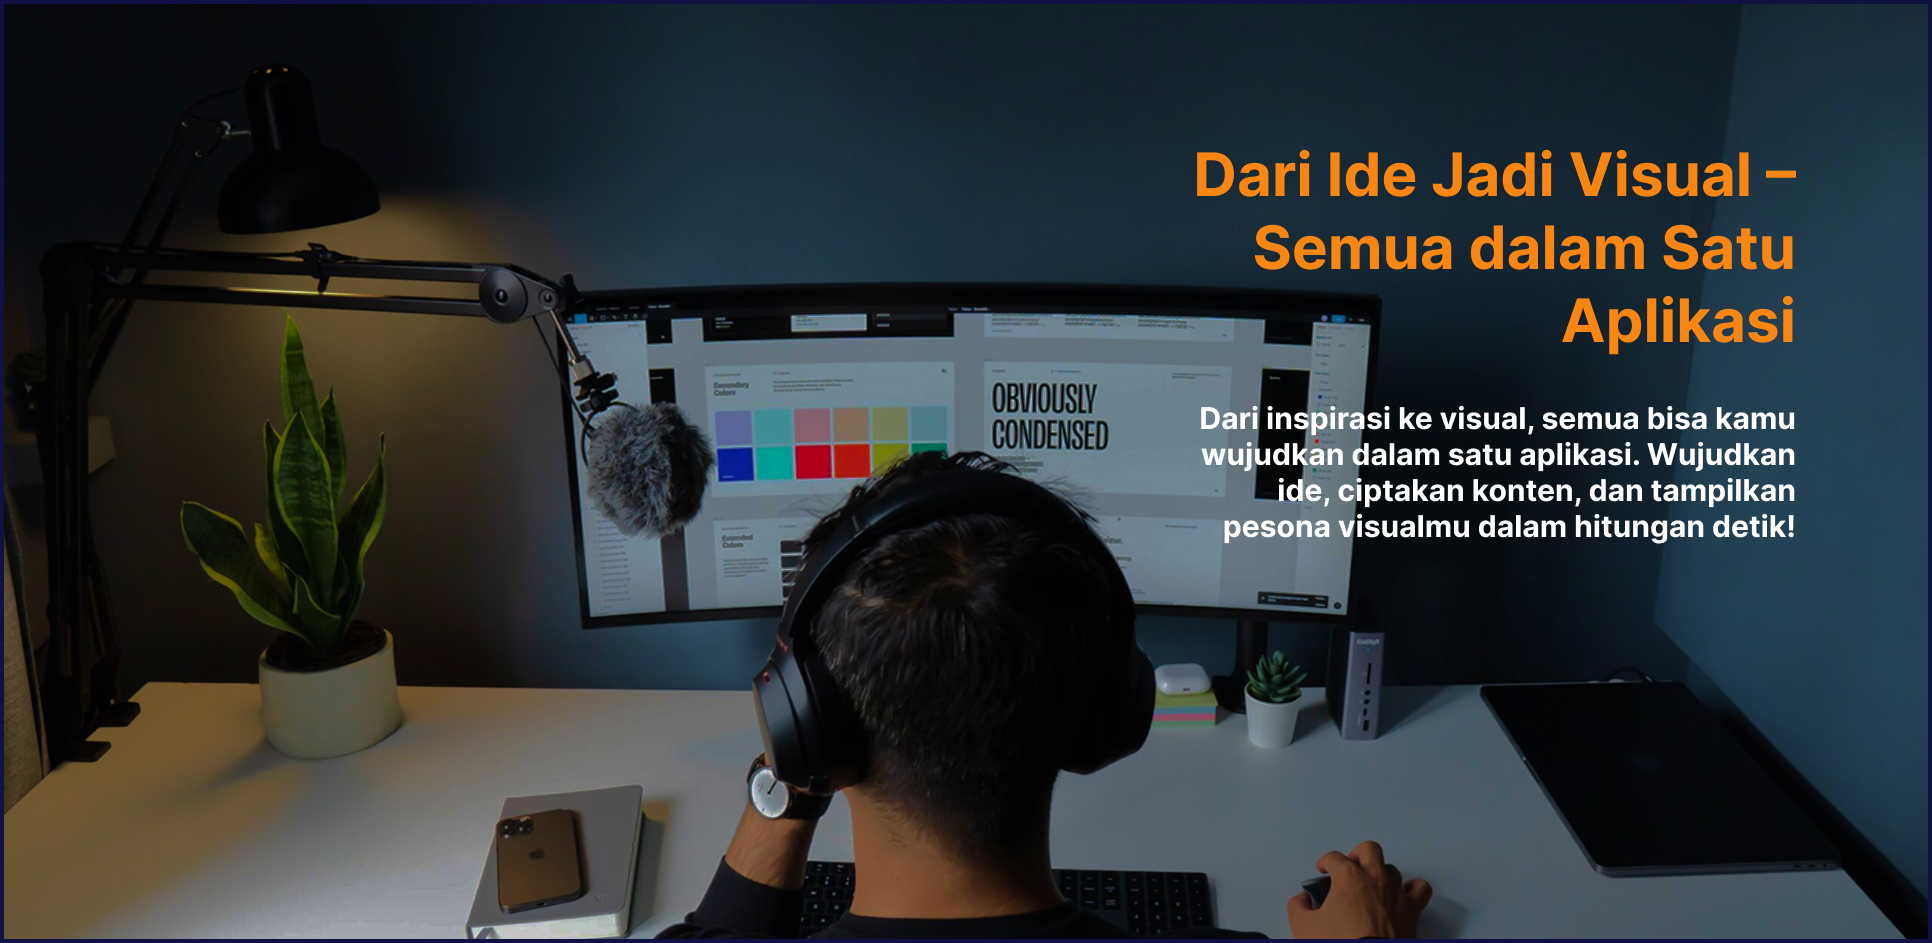
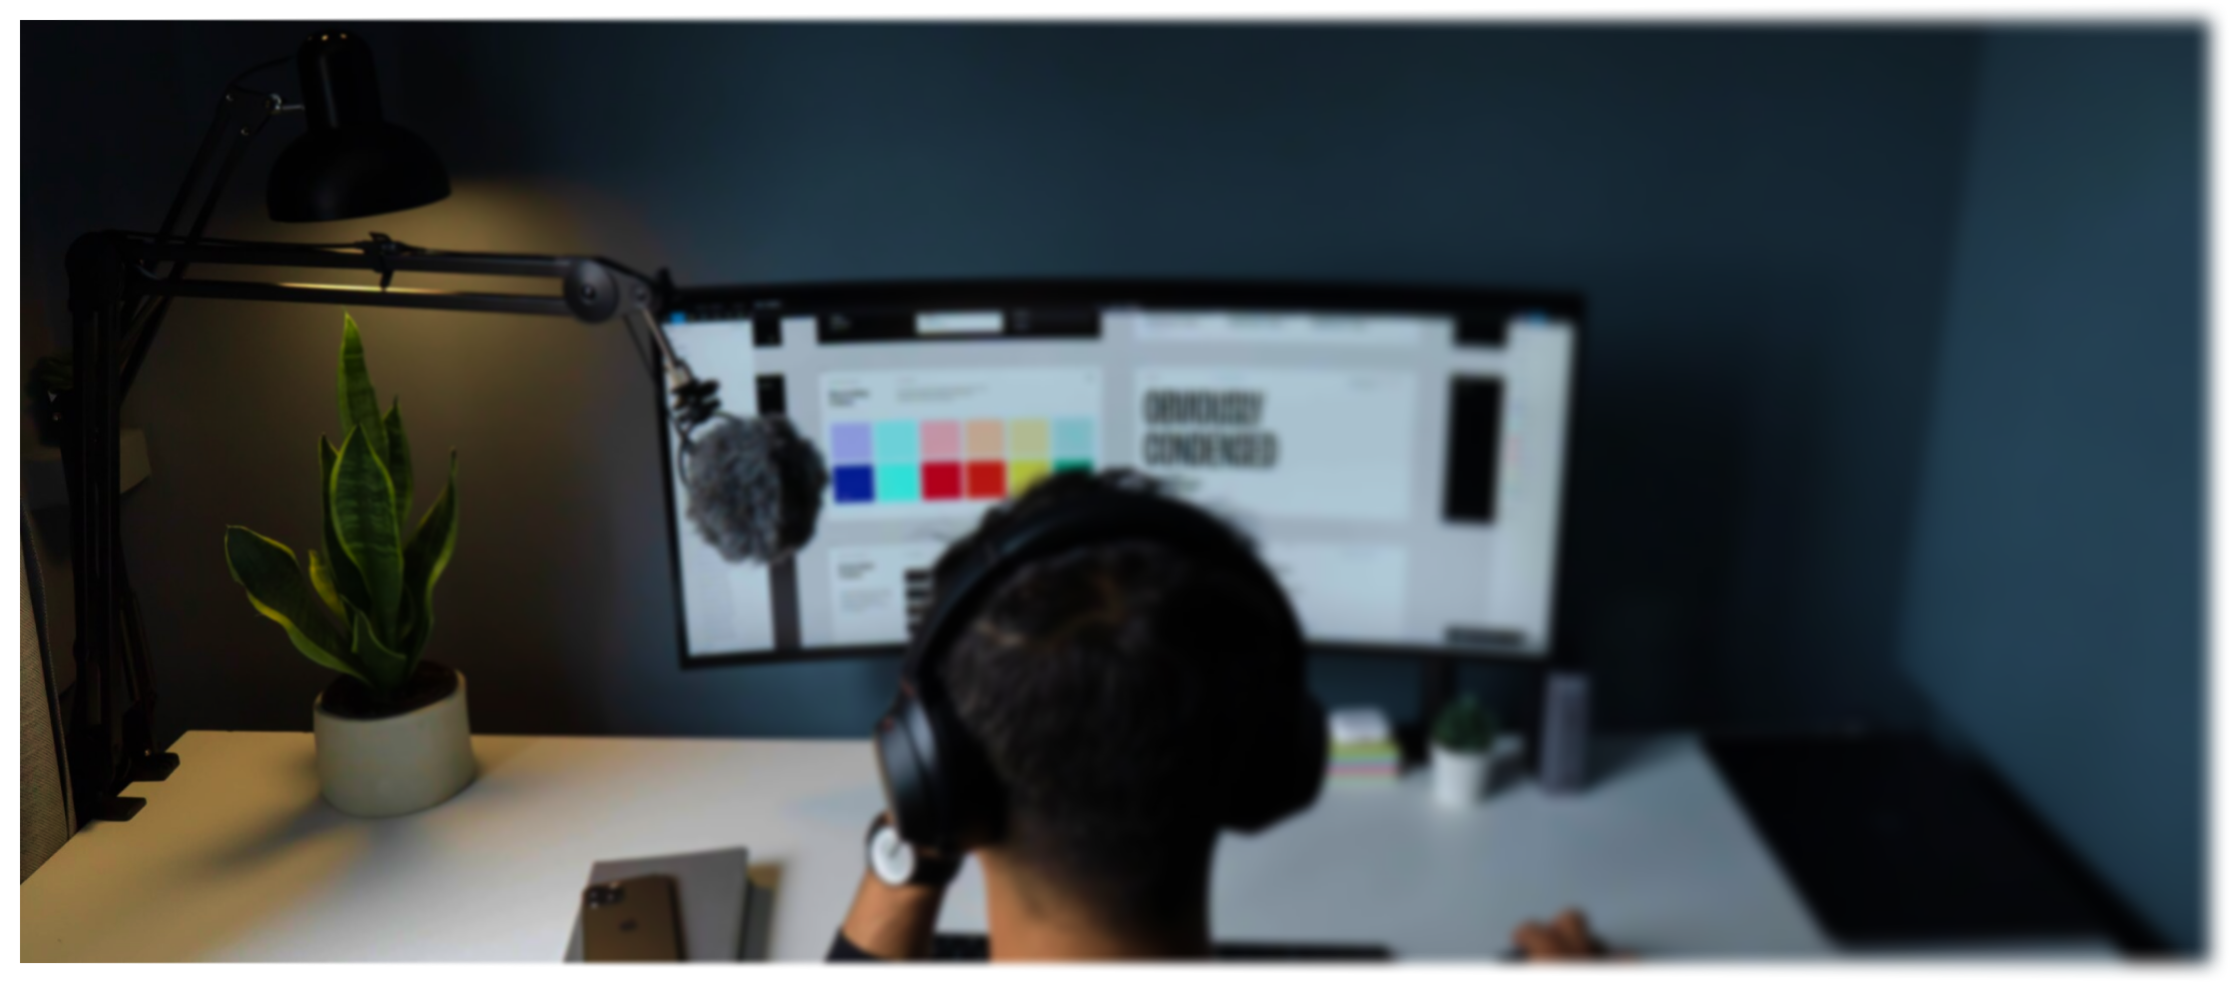
update 2.4

diff --git a/assets/css/tailwind.css b/assets/css/tailwind.css
@@ -628,6 +628,14 @@ video {
   left: -5%;
 }
 
+.-left-1 {
+  left: -0.25rem;
+}
+
+.-left-3 {
+  left: -0.75rem;
+}
+
 .z-10 {
   z-index: 10;
 }
@@ -793,6 +801,10 @@ video {
   height: 0.25rem;
 }
 
+.h-screen {
+  height: 100vh;
+}
+
 .min-h-screen {
   min-height: 100vh;
 }
@@ -855,6 +867,14 @@ video {
 
 .w-\[140\%\] {
   width: 140%;
+}
+
+.w-\[100\%\] {
+  width: 100%;
+}
+
+.w-screen {
+  width: 100vw;
 }
 
 .min-w-full {
@@ -938,6 +958,10 @@ video {
 
 .items-start {
   align-items: flex-start;
+}
+
+.items-end {
+  align-items: flex-end;
 }
 
 .items-center {
@@ -1165,6 +1189,11 @@ video {
      object-position: right;
 }
 
+.object-center {
+  -o-object-position: center;
+     object-position: center;
+}
+
 .p-3 {
   padding: 0.75rem;
 }
@@ -1258,6 +1287,10 @@ video {
 
 .text-center {
   text-align: center;
+}
+
+.text-right {
+  text-align: right;
 }
 
 .font-inter {
@@ -1900,6 +1933,10 @@ body {
     min-height: 80vh;
   }
 
+  .md\:min-h-screen {
+    min-height: 100vh;
+  }
+
   .md\:w-1\/2 {
     width: 50%;
   }
@@ -1932,6 +1969,10 @@ body {
     flex-direction: row;
   }
 
+  .md\:items-end {
+    align-items: flex-end;
+  }
+
   .md\:items-center {
     align-items: center;
   }
@@ -1951,6 +1992,11 @@ body {
   .md\:object-center {
     -o-object-position: center;
        object-position: center;
+  }
+
+  .md\:object-left {
+    -o-object-position: left;
+       object-position: left;
   }
 
   .md\:p-12 {
@@ -1978,6 +2024,16 @@ body {
 
   .md\:text-xl {
     font-size: 1.25rem;
+    line-height: 1.75rem;
+  }
+
+  .md\:text-5xl {
+    font-size: 3rem;
+    line-height: 1;
+  }
+
+  .md\:text-lg {
+    font-size: 1.125rem;
     line-height: 1.75rem;
   }
 }
@@ -2031,6 +2087,11 @@ body {
   .lg\:text-xl {
     font-size: 1.25rem;
     line-height: 1.75rem;
+  }
+
+  .lg\:text-6xl {
+    font-size: 3.75rem;
+    line-height: 1;
   }
 }
 

diff --git a/index.html b/index.html
@@ -437,15 +437,24 @@
 
 
         <!-- Hero Section Visual Ide -->
-        <section class="relative w-full overflow-hidden min-h-[60vh] md:min-h-[80vh] flex items-center justify-start">
+        <section class="relative w-screen h-screen overflow-hidden">
+        <!-- Gambar Hero -->
         <img 
             src="./assets/img/idevisual.png" 
             alt="Ide Visual" 
-            class="absolute w-[120%] md:w-full h-full object-cover object-right md:object-center md:left-0"
+            class="absolute top-0 left-0 w-screen h-screen object-cover object-center"
         />
+
+        <!-- Overlay Text -->
+        <div class="absolute top-0 right-0 h-full w-full md:w-1/2 flex flex-col justify-center items-end text-right p-6 md:p-12">
+            <h1 class="text-4xl md:text-5xl lg:text-6xl font-bold text-secondary leading-tight">
+            Dari Ide Jadi Visual
+            </h1>
+            <p class="mt-4 text-md md:text-lg text-white">
+            Dari inspirasi ke visual, semua bisa kamu wujudkan dalam satu aplikasi. Wujudkan ide, ciptakan konten, dan tampilkan pesona visualmu dalam hitungan detik!
+            </p>
+        </div>
         </section>
-
-
 
 
         <!-- Showcase Bulk Sales -->
